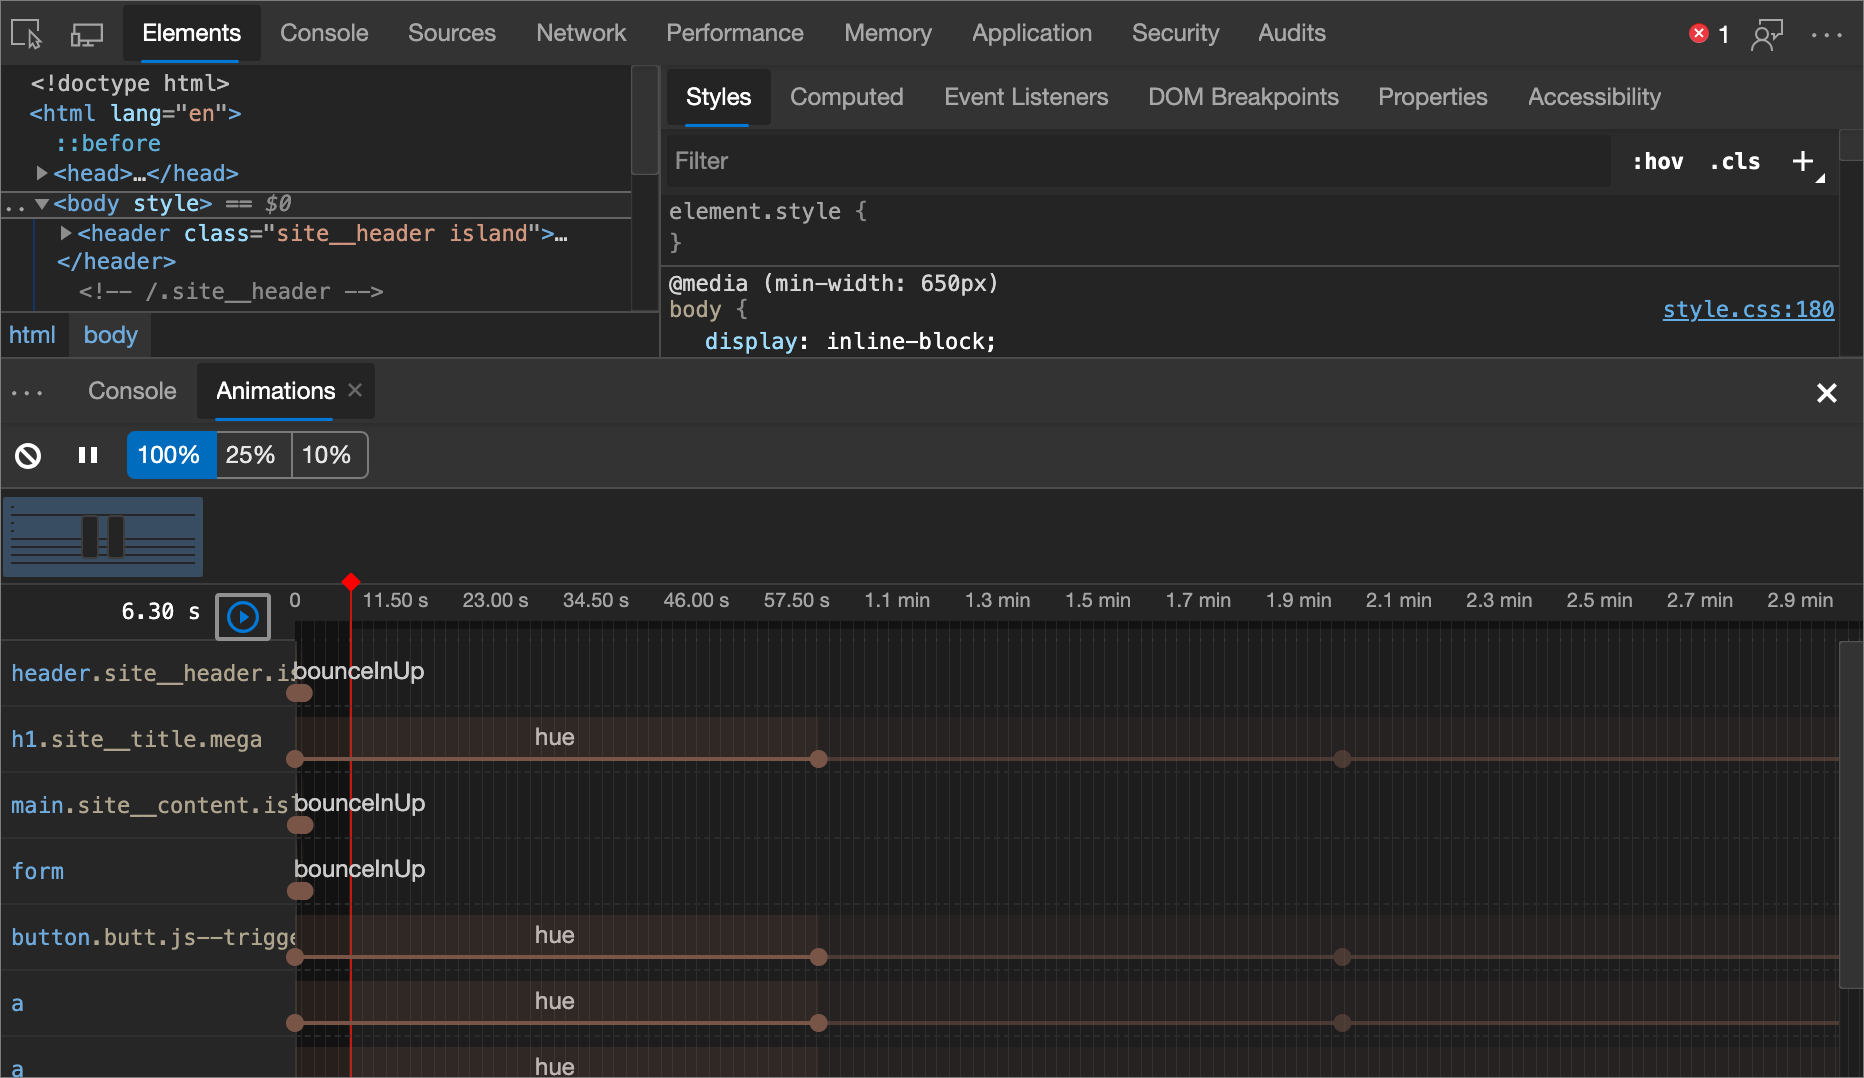
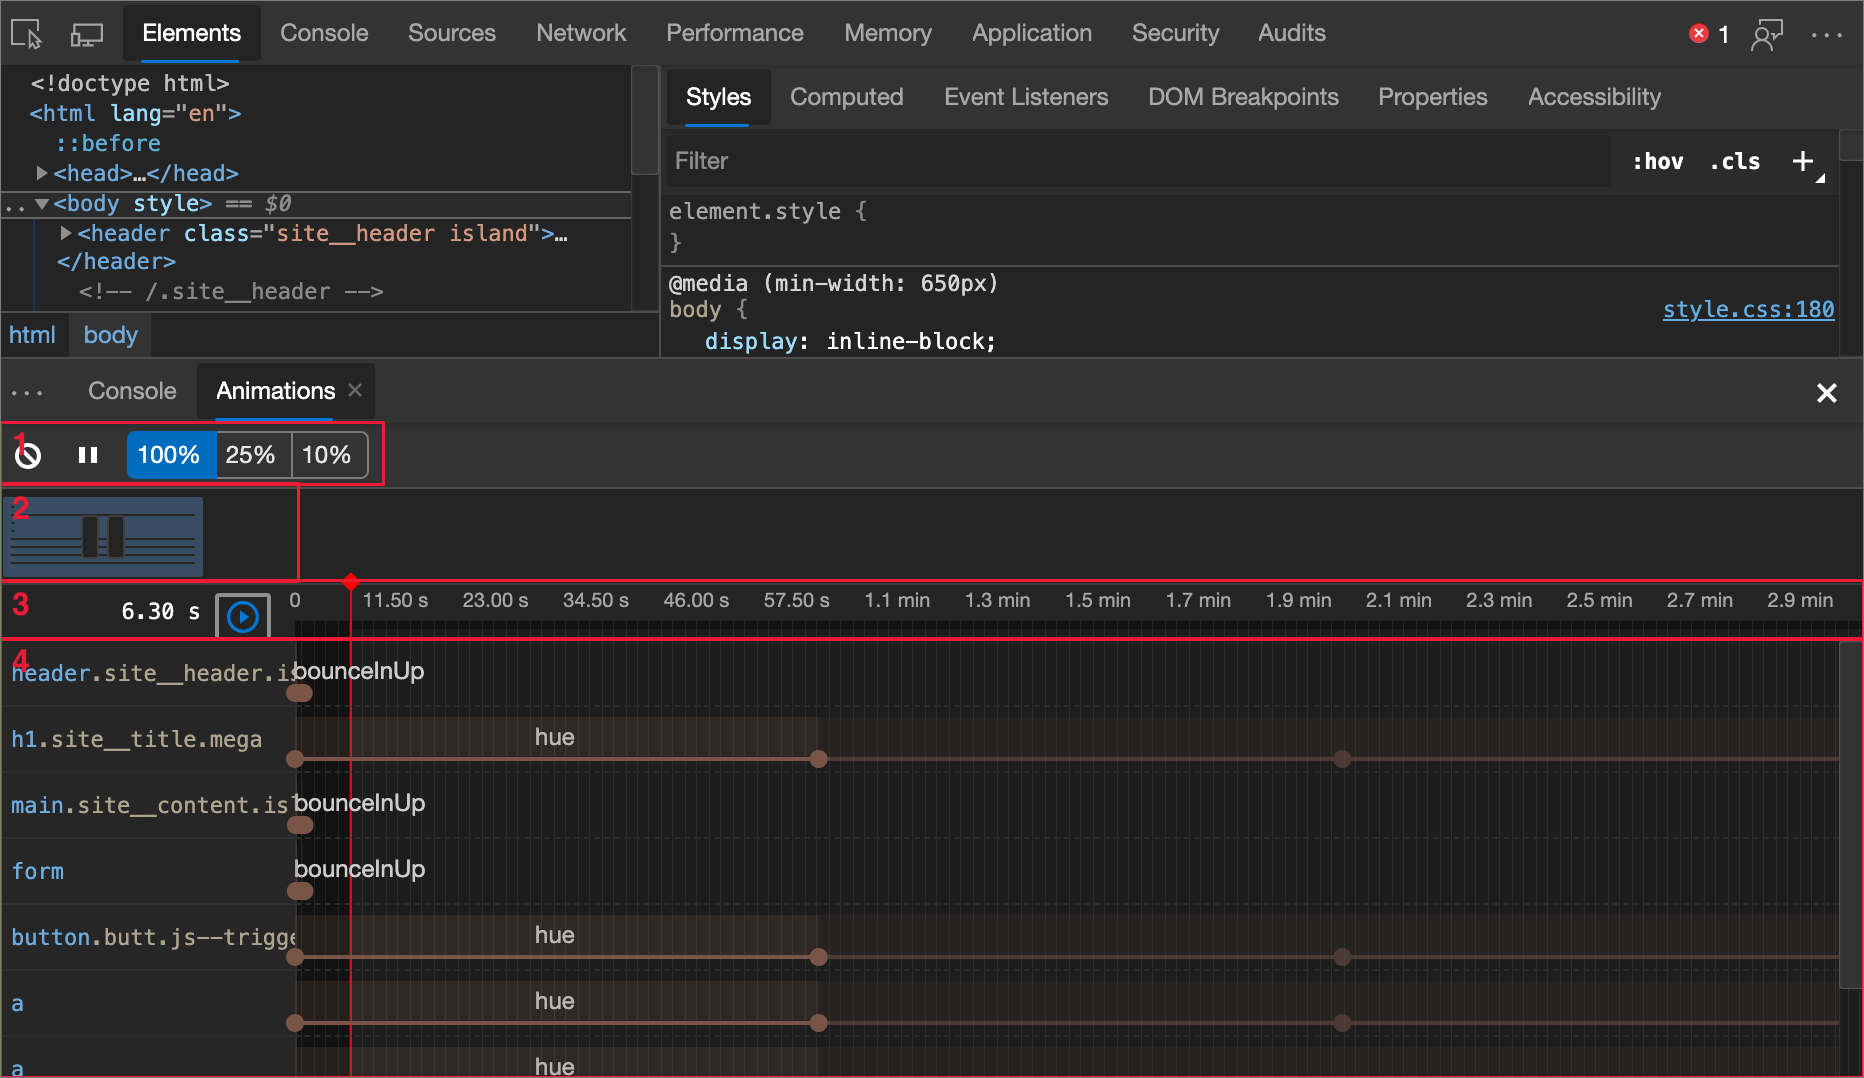
commit from WebFundamentals

Changed region(s): [[0.0, 0.5204, 1.0, 1.0], [0.0, 0.4286, 0.1867, 0.4898]]

diff --git a/microsoft-edge/devtools-guide-chromium/inspect-styles/animations.md b/microsoft-edge/devtools-guide-chromium/inspect-styles/animations.md
@@ -80,10 +80,10 @@ The Animation Inspector is grouped into four main sections \(or panes\).  This g
 
 | Pane | Description |  
 |:--- |:--- |  
-| **Controls** | From here you may clear all currently captured Animation Groups, or change the speed of the currently selected Animation Group. |  
-| **Overview** | Select an Animation Group here to inspect and modify it in the **Details** pane. |  
-| **Timeline** | Pause and start an animation from here, or jump to a specific point in the animation. |  
-| **Details** | Inspect and modify the currently selected Animation Group. |  
+| 1 **Controls** | From here you may clear all currently captured Animation Groups, or change the speed of the currently selected Animation Group. |  
+| 2 **Overview** | Select an Animation Group here to inspect and modify it in the **Details** pane. |  
+| 3 **Timeline** | Pause and start an animation from here, or jump to a specific point in the animation. |  
+| 4 **Details** | Inspect and modify the currently selected Animation Group. |  
 
 > ##### Figure 4  
 > Annotation Animation Inspector  
@@ -91,13 +91,15 @@ The Animation Inspector is grouped into four main sections \(or panes\).  This g
 
 To capture an animation, just perform the interaction that triggers the animation while the Animation Inspector is open.  If an animation is triggered on page load, you may assist the Animation Inspector detect the animation by reloading the page.  
 
-<!--<video src="animations/capture-animations.mp4" autoplay loop muted controls></video>  -->  
+<!--  old link: <video src="animations/capture-animations.mp4" autoplay loop muted controls></video>  -->  
 
-![Looped Capture Animations][MovieCaptureAnimations]  
+<!--  import the video to ACOM using https://review.docs.microsoft.com/en-us/help/contribute/contribute-video-publish?branch=master  -->  
+
+<!--  > [!VIDEO animations/capture-animations.mp4]  -->  
 
 ## Inspect animations   
 
-Once you have captured an animation, there are a few ways to replay it:  
+After you capture an animation, there are a few ways to replay it:  
 
 *   Hover over the thumbnail in the **Overview** pane to view a preview of it.  
 *   Select the Animation Group from the **Overview** pane \(so that it is displayed in the **Details** pane\) and press the **replay** button \(![replay button][ImageReplayButtonIcon]\).  The animation is replayed in the viewport.  Click on the **animation speed** buttons \(![animation speed buttons][ImageAnimationSpeedButtonsIcon]\) to change the preview speed of the currently selected Animation Group.  You may use the red vertical bar to change your current position.  
@@ -117,7 +119,7 @@ Hover over an animation to highlight it in the viewport.  Click on the animation
 > Hover over animation to highlight it in viewport  
 > ![Hover over animation to highlight it in viewport][ImageHoverOverAnimationHighlightViewport]  
 
-The leftmost, darker section of an animation is the definition.  The right, more faded section represents iterations.  For example, in the screenshot below, sections two and three represent iterations of section one.  
+The leftmost, darker section of an animation is the definition.  The right, more faded section represents iterations.  For example, in [Figure 7](#figure-7), sections two and three represent iterations of section one.  
 
 > ##### Figure 7  
 > Diagram of animation iterations  
@@ -137,7 +139,7 @@ There are three ways you are able to modify an animation with the Animation Insp
 *   Keyframe timings.  
 *   Start time delay.  
 
-For this section suppose that the screenshot below represents the original animation:  
+For this section suppose that [Figure 9](#figure-9) represents the original animation:  
 
 > ##### Figure 9  
 > Original animation before modification  
@@ -165,16 +167,12 @@ To add a delay to an animation, click and drag it anywhere except the circles.
 
 
 
-<!-- Animation links -->  
-
-[MovieCaptureAnimations]: animations/capture-animations.mp4 "Looped Capture Animations"  
-
 <!-- image links -->  
 
 [ImageAnimationSpeedButtonsIcon]: images/animation-speed-buttons-icon.msft.png  
 [ImageReplayButtonIcon]: images/replay-button-icon.msft.png  
 
-[ImageAnimationInspector]: images/.msft.png "Figure 1: Animation inspector"  
+[ImageAnimationInspector]: images/elements-styles-drawer-animations-completed.msft.png "Figure 1: Animation inspector"  
 [ImageAnimationsViaMainMenu]: images/elements-styles-more-tools-animations.msft.png "Figure 2: Animations via Main Menu"  
 [ImageEmptyAnimationInspector]: images/elements-styles-drawer-animations.msft.png "Figure 3: Empty Animation Inspector"  
 [ImageAnnotatedAnimationInspector]: images/elements-styles-drawer-animations-selected-paused.msft.png "Figure 4: Annotation Animation Inspector"  
